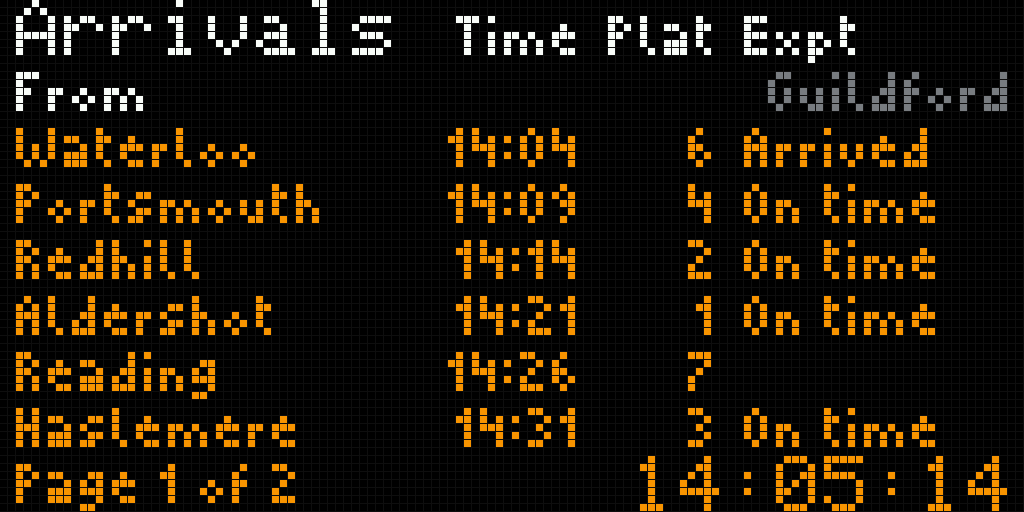
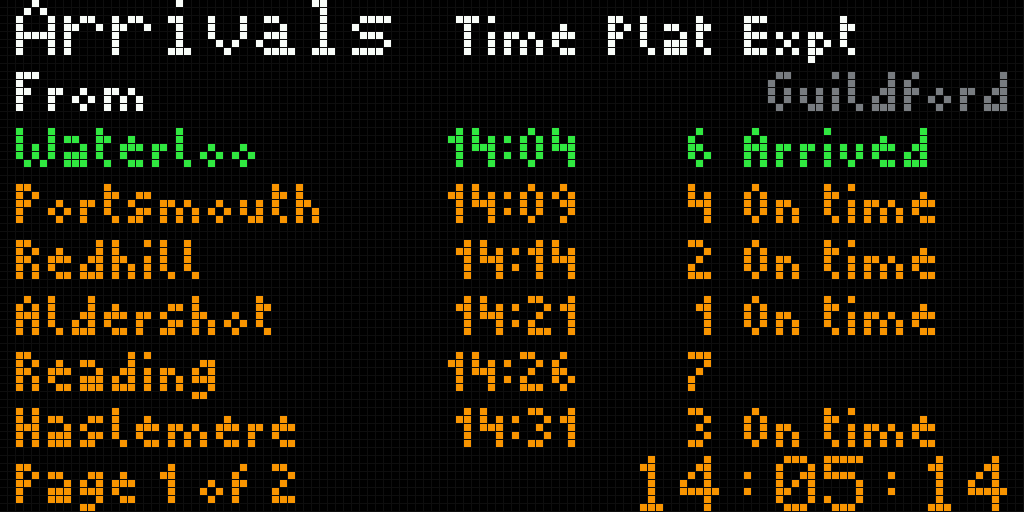
Rail board: settings and due-soon previews, README
- render.py draws the settings: palette and defaults read out of
  rb_settings.h, due-soon rows in their colour, the clock with or without
  seconds. New scenes: due_soon_arrivals (within 5 min: an arrived train
  and one 3:46 away), colours (yellow rows, cyan headings, HH:MM),
  colours_white (white rows, amber headings, due within 10 min).
- The existing previews are re-rendered with the defaults, so a train
  within 3 min shows green in them too: 14:08 at 14:05:14 in departures.
- README: a Settings section - the keys and ranges, the palette and why,
  the due-soon rule and the train past its time, web over Home
  Assistant over build, NVS rbcfg's keys, the API with its 400s, and
  what was proposed but not taken; verified, not verified, choices,
  cost and merge touch points.

Checked: tools/flag_matrix.py 24/24 on 08b2b7c; against fb60bb0 the
settings cost +11620 B flash and +72 B RAM.

diff --git a/src/railboard/README.md b/src/railboard/README.md
@@ -334,6 +334,11 @@ is `X-RateLimit-Remaining-Day` as sent.
 | `stale_s` | 30–3600 | Data updating after this long without a fresh board |
 | `diag` | bool | show diagnostics instead of the board |
 
+Home Assistant's config is used only while the web portal has set nothing (see
+[Settings](#settings)). It is always read and remembered, so `{"reset":true}`
+returns to it without waiting for the next publish. `diag` is never a web
+setting: the portal has its own switch for it.
+
 ## Layout
 
 Modelled on the owner's photograph of a UK station screen: black ground, white
@@ -364,6 +369,12 @@ When no board has arrived at all, the first row says `Waiting for GLD`, or
 | a station name too long | [`long_name.png`](../../tools/railboard/preview/long_name.png) |
 | diagnostics | [`diagnostics.png`](../../tools/railboard/preview/diagnostics.png) |
 | before any board | [`waiting.png`](../../tools/railboard/preview/waiting.png) |
+| due soon within 5 min, arrivals: an arrived train and one 3:46 away | [`due_soon_arrivals.png`](../../tools/railboard/preview/due_soon_arrivals.png) |
+| yellow rows, cyan headings, clock without seconds | [`colours.png`](../../tools/railboard/preview/colours.png) |
+| white rows, amber headings, due soon within 10 min | [`colours_white.png`](../../tools/railboard/preview/colours_white.png) |
+
+The scenes without a setting of their own use the defaults, so `departures.png`
+shows 14:08 in green: at 14:05:14 it is 2 min 46 s away.
 
 ## Diagnostics
 
@@ -390,6 +401,110 @@ National Rail's station pages (GLD, WAT, WOK, RDG, GTW, LRD). **Status** adds:
 
 `/api/railboard` → `direct` also carries `heapBefore`, `heapMin`, `stackFree`,
 `bytes`, `services`, `jsonPeak`, `polls` and `fails`.
+
+## Settings
+
+Panel → Rail board → **Board settings**. Every control applies at once; there
+is no save button. The card has a preview drawn in the browser from the rows
+the panel is listing, in the colours chosen.
+
+| setting | key | range | default |
+|---|---|---|---|
+| seconds before departures and arrivals swap | `switch_s` | 3–600 | 10 |
+| services listed (six to a page) | `rows` | 1–8 | 8 |
+| brightness of this page | `level` | 10–100 % | 100 |
+| Data updating after | `stale_s` | 30–3600 s | 80 |
+| row colour: rows, footer and clock | `row_color` | palette | amber |
+| heading colour: title and column headings | `head_color` | palette | white |
+| due soon colour | `due_color` | palette, not `row_color` while due soon is on | green |
+| due soon | `due_min` | 0 (off) – 15 min | 3 |
+| clock with seconds | `clock_seconds` | true / false | true |
+
+Bounds and the palette are in `src/railboard/rb_settings.h`, the one place they
+are written; `render.py` reads them from there.
+
+**Palette.** Named colours, not free RGB: a handful that read against black on
+a HUB75 panel. No red, which means Cancelled.
+
+| name | RGB | |
+|---|---|---|
+| `amber` | 255,150,0 | the board's own; the photograph's 255,170,0 leans yellow on these panels |
+| `yellow` | 255,214,0 | |
+| `orange` | 255,96,0 | |
+| `white` | 255,255,255 | |
+| `green` | 48,232,64 | the due soon default: its green channel well above amber's, so the two differ in hue and brightness |
+| `cyan` | 0,214,232 | |
+
+**Due soon.** A departure or an arrival is drawn in the due soon colour from
+`due_min` minutes before its time until the board drops it. Its time is the
+expected one - actual, else forecast, else estimate - and the scheduled one only
+when there is none. So a train scheduled soon but expected late is not green,
+and one scheduled long ago but expected now is.
+
+There is no lower bound. A train at or just past its time that has not been
+reported gone may still be at the platform, so it stays green until the list
+removes it: 60 s after its time, or 120 s after an arrival's actual time. An
+arrived train is therefore green for its last two minutes on the list. A
+departure reported as departed never reaches the list, and Cancelled is never
+green: it stays red. Without a clock there is no highlight.
+
+**Who wins.** Once anything is set in the portal, the portal's settings are in
+force, all of them, and kept across reboots. Until then, Home Assistant's
+`.../config` over the build defaults, or the build defaults alone. The fields
+Home Assistant does not send - colours, due soon, the clock - are the build's.
+**Use Home Assistant or build settings** (`{"reset":true}`) clears the portal's
+and returns to Home Assistant's last config, or the build's when none has
+arrived since boot.
+
+**NVS**, namespace `rbcfg`, written 2.5 s after the last change and only the
+fields that differ from what NVS holds:
+
+| key | type | |
+|---|---|---|
+| `web` | u8 | 1 while the portal owns the settings; written last, so a half-written set is never read |
+| `rows` | u8 | |
+| `swS` | u16 | switch_s |
+| `lvl` | u8 | level |
+| `stale` | u16 | stale_s |
+| `dueMin` | u8 | due_min |
+| `clkSec` | u8 | clock_seconds |
+| `rowCol`, `headCol`, `dueCol` | string | palette names, so a palette reordered in a later build still reads the colour chosen |
+
+A reset clears the namespace. A stored set that fails the bounds of the running
+build is ignored as a whole.
+
+**API.**
+
+```
+POST /api/railboard  {"config":{"row_color":"yellow","due_min":5}}   any subset of the keys
+POST /api/railboard  {"reset":true}
+```
+
+Every key must be known and every value valid, or the answer is 400 with a
+message naming the field - `config.due_min must be 0 (off) to 15`,
+`config.row_color must be amber, yellow, orange, white, green or cyan`,
+`config.font is not a setting` - and nothing changes. Integers must be integers
+(`1.5`, `"3"` and `true` are refused), `clock_seconds` a boolean, colours exact
+lower-case names. `config` and `reset` together are refused. The portal's
+Content-Type rule applies: `application/json` or 415.
+
+`GET /api/railboard` → `cfg`:
+
+```json
+{"rows":8,"switch_s":10,"level":100,"stale_s":80,"row_color":"amber","head_color":"white",
+ "due_color":"green","due_min":3,"clock_seconds":true,"from":"web","haHave":true,"saved":true,
+ "bounds":{"rows":[1,8],"switch_s":[3,600],"level":[10,100],"stale_s":[30,3600],"due_min":[0,15],
+           "colors":[{"name":"amber","hex":"#ff9600"}, ...]}}
+```
+
+`from` is `web`, `ha` or `build`; `saved` is false for the 2.5 s before NVS has
+caught up. Each list (`dep`, `arr`) also carries `rows`: the services the page
+lists, with `t`, `x`, `p`, `n`, `st` and `due`, for the portal's preview.
+
+**Not taken, and proposed:** a calling-points line under the first service
+(the payload has none yet), dimming at night on a schedule (the panel's own
+brightness schedule already exists), the operator code as a column (no room
+at 128 px), and a free RGB picker (colours that do not read on the panel).
 
 ## London time
 
@@ -438,6 +553,14 @@ Run on this machine:
   its own `secrets.yaml`, HASS plugin only, `flight_board` imports paho.
 - The portal script passes JavaScriptCore's `checkSyntax`; the YAML files parse
   and their Jinja blocks close.
+- Settings (`wip/rail-settings`): `tools/railboard/settings_host_test.cpp`, run by
+  `check_direct.py` - every field at and past its bounds, wrong types, unknown
+  keys, the colour clash, a refused object changing nothing, GET's values fed
+  back to POST, and the due soon edges (exactly `due_min` minutes, one second
+  over, expected versus scheduled, past its time, arrived, cancelled, off, no
+  clock). The portal script parses in JavaScriptCore (`new Function`).
+  `matrix-waveshare-rgb` builds with 0 warnings and `tools/flag_matrix.py` is
+  24/24 on `08b2b7c`.
 
 ## Not verified
 
@@ -456,6 +579,9 @@ Run on this machine:
   app arguments; `python3` in the homeassistant container (option B).
 - The Jinja template the ports came from was never executed.
 - `Retry-After` as an HTTP date is read as absent (15 min).
+- **Settings on the panel**: the NVS store and load, the web card and its
+  preview in a browser, and how green 48,232,64 and yellow 255,214,0 read on the
+  panel next to amber are untested on hardware; the previews are host renders.
 
 ## Choices that are not standards
 
@@ -471,6 +597,8 @@ Design choices, taken from the owner's brief, the panel and the photograph:
 - 10 s per list, six rows to a page, `RB_HOLD_S` 60 s, `stale_s` 80 s, grace
   60 s (120 s once arrived), lookback 30 min and window 90 min, amber 255,150,0.
 - Late from one minute: the expected minute differs from the scheduled one.
+- Due soon up to 15 min, default 3; the palette's six colours and their RGB;
+  settings written to NVS 2.5 s after the last change.
 
 ## Cost
 
@@ -480,6 +608,9 @@ against each base it was rebased onto: +24 572 B on `1c82839`, +24 568 B on
 `ab4314c`; RAM +248 B every time. Most of the flash is
 HTTPClient and WiFiClientSecure's use of mbedTLS certificate verification, which
 nothing else on the board linked before, plus the transform and the two roots.
+
+Settings, against `fb60bb0`: **+11 620 B flash, +72 B RAM** (2 004 849 →
+2 016 469 and 92 940 → 93 012), most of it the portal's larger card and script.
 
 ## Merge touch points
 
@@ -499,6 +630,13 @@ nothing else on the board linked before, plus the transform and the two roots.
   `ha_package_railboard_shell.yaml`, `rtt_client.py`, `appdaemon/`.
 - Tests: `check_direct.py`, `direct_host_test.cpp`, `gen_rtt_fixture.py`,
   `samples/rtt_location_small.json`, `check_rtt_client.py`.
+- Settings: new `rb_settings.h` and `tools/railboard/settings_host_test.cpp`;
+  `railboard.cpp` (settings in force, NVS `rbcfg`, colours and due soon in the
+  draw, `cfg` and per-list `rows` in the status); `railboard.h`
+  (`railboardSettings`, `railboardSetSettings`, `railboardResetSettings`
+  replace `railboardApplyConfig`); `web_panel.cpp` (`handleRailboard` config and
+  reset); `web_panel_page.h` (the Board settings card, two CSS rules);
+  `web_panel_js.h` (settings and preview); `render.py` and `check_direct.py`.
 
 ## Status and next steps
 
